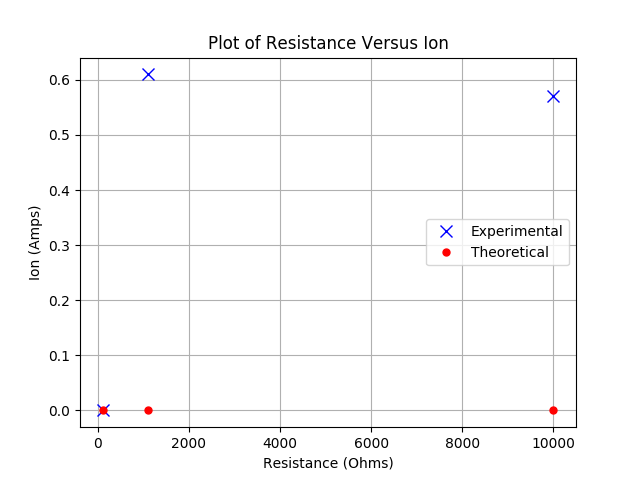
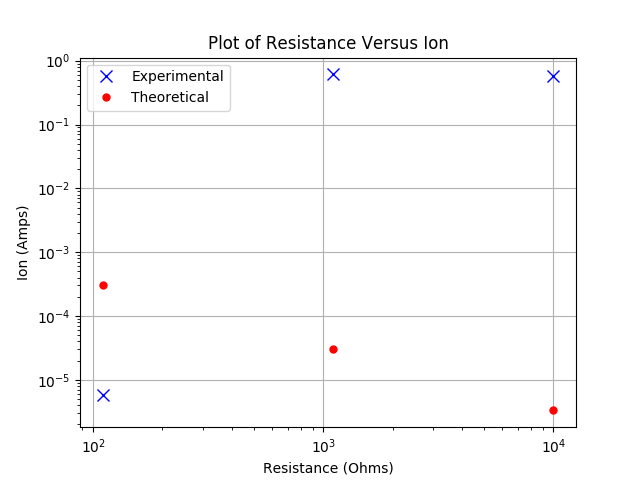
adding more data

diff --git a/lab 4/exp32.py b/lab 4/exp32.py
@@ -1,0 +1,57 @@
+import numpy as np
+import matplotlib.pyplot as plt
+from scipy import stats
+
+Ix = open('exp32/ix1-source/Iy.txt', 'r').read().split()
+Iz1 = open('exp32/ix1-source/Iz.txt', 'r').read().split()
+Iz2 = open('exp32/ix2-source/Iz.txt', 'r').read().split()
+Iz3 = open('exp32/ix3-source/Iz.txt', 'r').read().split()
+
+
+i = 0
+for x in Ix:
+    val = float(x)
+    Ix[i]= val
+    i = i+1
+
+i = 0
+for x in Iz1:
+    val = -1*float(x)
+    Iz1[i]= val
+    i = i+1
+
+i = 0
+for x in Iz2:
+    val = -1*float(x)
+    Iz2[i]= val
+    i = i+1
+
+i = 0
+for x in Iz3:
+    val = -1*float(x)
+    Iz3[i]= val
+    i = i+1
+
+
+#slope, intercept, r_value, p_value, std_err = stats.linregress(linear_v, linear_i)
+#linear_v = np.array(linear_v)
+
+
+
+if __name__ == '__main__':
+    title = "Plot of current versus current fix me"
+    xLabel = "Ix (A)"
+    yLabel = "Iz (A)"
+
+    Data = plt.loglog(Ix, Iz1, 'bo', markersize=3, label="2.94K Ohms")
+    Data = plt.loglog(Ix, Iz2, 'ro', markersize=3, label="28K Ohms")
+    Data = plt.loglog(Ix, Iz3, 'go', markersize=3, label="294K Ohms")
+
+
+
+    plt.legend()
+    plt.xlabel(xLabel)
+    plt.ylabel(yLabel)
+    plt.title(title)
+    plt.grid(True)
+    plt.show()

diff --git a/lab 4/exp3.py b/lab 4/exp3.py
@@ -1,0 +1,57 @@
+import numpy as np
+import matplotlib.pyplot as plt
+from scipy import stats
+
+Ix = open('exp32/2.94k-sink/Ix.txt', 'r').read().split()
+Iz1 = open('exp32/2.94k-sink/Iz.txt', 'r').read().split()
+Iz2 = open('exp32/28k-sink/Iz.txt', 'r').read().split()
+Iz3 = open('exp32/294k-sink/Iz.txt', 'r').read().split()
+
+
+i = 0
+for x in Ix:
+    val = float(x)
+    Ix[i]= val
+    i = i+1
+
+i = 0
+for x in Iz1:
+    val = -1*float(x)
+    Iz1[i]= val
+    i = i+1
+
+i = 0
+for x in Iz2:
+    val = -1*float(x)
+    Iz2[i]= val
+    i = i+1
+
+i = 0
+for x in Iz3:
+    val = -1*float(x)
+    Iz3[i]= val
+    i = i+1
+
+
+#slope, intercept, r_value, p_value, std_err = stats.linregress(linear_v, linear_i)
+#linear_v = np.array(linear_v)
+
+
+
+if __name__ == '__main__':
+    title = "Plot of current versus current fix me"
+    xLabel = "Ix (A)"
+    yLabel = "Iz (A)"
+
+    Data = plt.loglog(Ix, Iz1, 'bo', markersize=3, label="2.94K Ohms")
+    Data = plt.loglog(Ix, Iz2, 'ro', markersize=3, label="28K Ohms")
+    Data = plt.loglog(Ix, Iz3, 'go', markersize=3, label="294K Ohms")
+
+
+
+    plt.legend()
+    plt.xlabel(xLabel)
+    plt.ylabel(yLabel)
+    plt.title(title)
+    plt.grid(True)
+    plt.show()

diff --git a/lab 2/exp2von.py b/lab 2/exp2von.py
@@ -24,8 +24,8 @@ if __name__ == '__main__':
     yLabel = "Von (Volts)"
 
 
-    Data = plt.plot(xs, ys, 'bx', markersize=8, label="Experimental")
-    Data = plt.plot(xs, vons, 'ro', markersize=5, label="Theoretical")
+    Data = plt.semilogx(xs, ys, 'bx', markersize=8, label="Experimental")
+    Data = plt.semilogx(xs, vons, 'ro', markersize=5, label="Theoretical")
 
     plt.legend()
     plt.xlabel(xLabel)

diff --git a/lab 2/exp2ion.py b/lab 2/exp2ion.py
@@ -28,8 +28,8 @@ if __name__ == '__main__':
     yLabel = "Ion (Amps)"
 
 
-    Data = plt.plot(xs, ys, 'bx', markersize=8, label="Experimental")
-    Data = plt.plot(xs, ions, 'ro', markersize=5, label="Theoretical")
+    Data = plt.loglog(xs, ys, 'bx', markersize=8, label="Experimental")
+    Data = plt.loglog(xs, ions, 'ro', markersize=5, label="Theoretical")
 
     plt.legend()
     plt.xlabel(xLabel)
